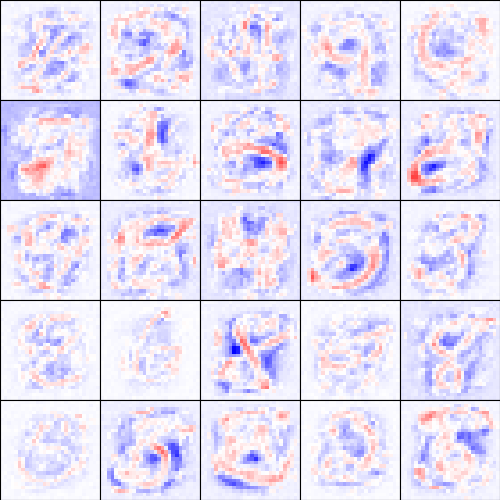
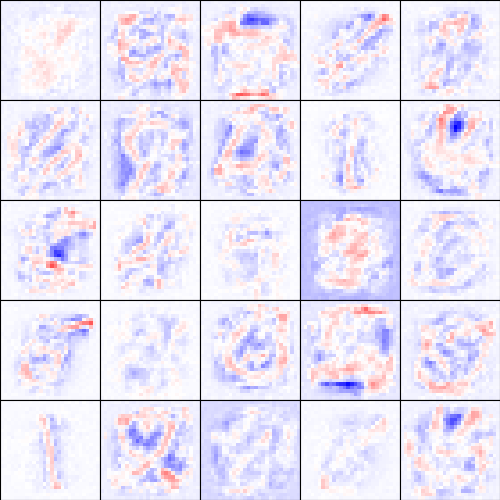
1

diff --git a/Lab4/code/rbm.py b/Lab4/code/rbm.py
@@ -89,7 +89,7 @@ class RestrictedBoltzmannMachine():
             # you may need to use the inference functions 'get_h_given_v' and 'get_v_given_h'.
             # note that inference methods returns both probabilities and activations (samples from probablities) and you may have to decide when to use what.
             for i in range(n_batches):
-                v_0 = visible_trainset[i:i + self.batch_size]
+                v_0 = visible_trainset[i*self.batch_size:i*self.batch_size + self.batch_size]
                 _, h_0 = self.get_h_given_v(v_0)
                 _, v_k = self.get_v_given_h(h_0)
                 _, h_k = self.get_h_given_v(v_k)
@@ -125,7 +125,7 @@ class RestrictedBoltzmannMachine():
         # [TODO TASK 4.1] get the gradients from the arguments (replace the 0s below) and update the weight and bias parameters
 
         self.delta_bias_v = self.learning_rate * np.sum(v_0 - v_k, axis=0)
-        self.delta_weight_vh = self.learning_rate * (np.dot(v_0.T, h_0) - np.dot(v_k.T, h_k))
+        self.delta_weight_vh = self.learning_rate * (np.dot(v_0.T, h_0) - np.dot(v_k.T, h_k))/self.batch_size
         self.delta_bias_h = self.learning_rate * (np.sum(h_0 - h_k, axis=0))
 
         self.bias_v += self.delta_bias_v
